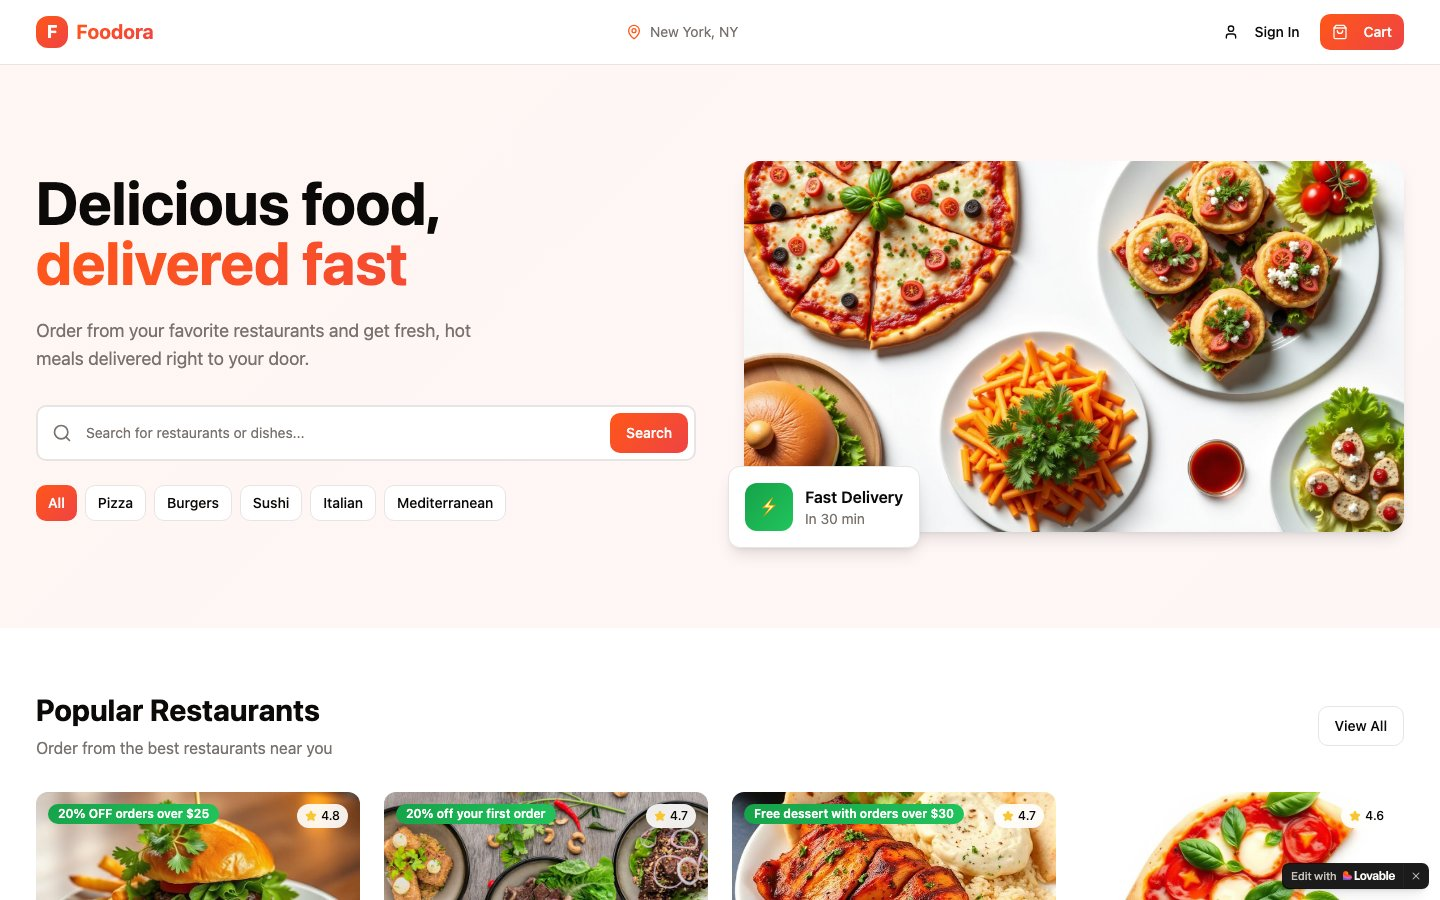
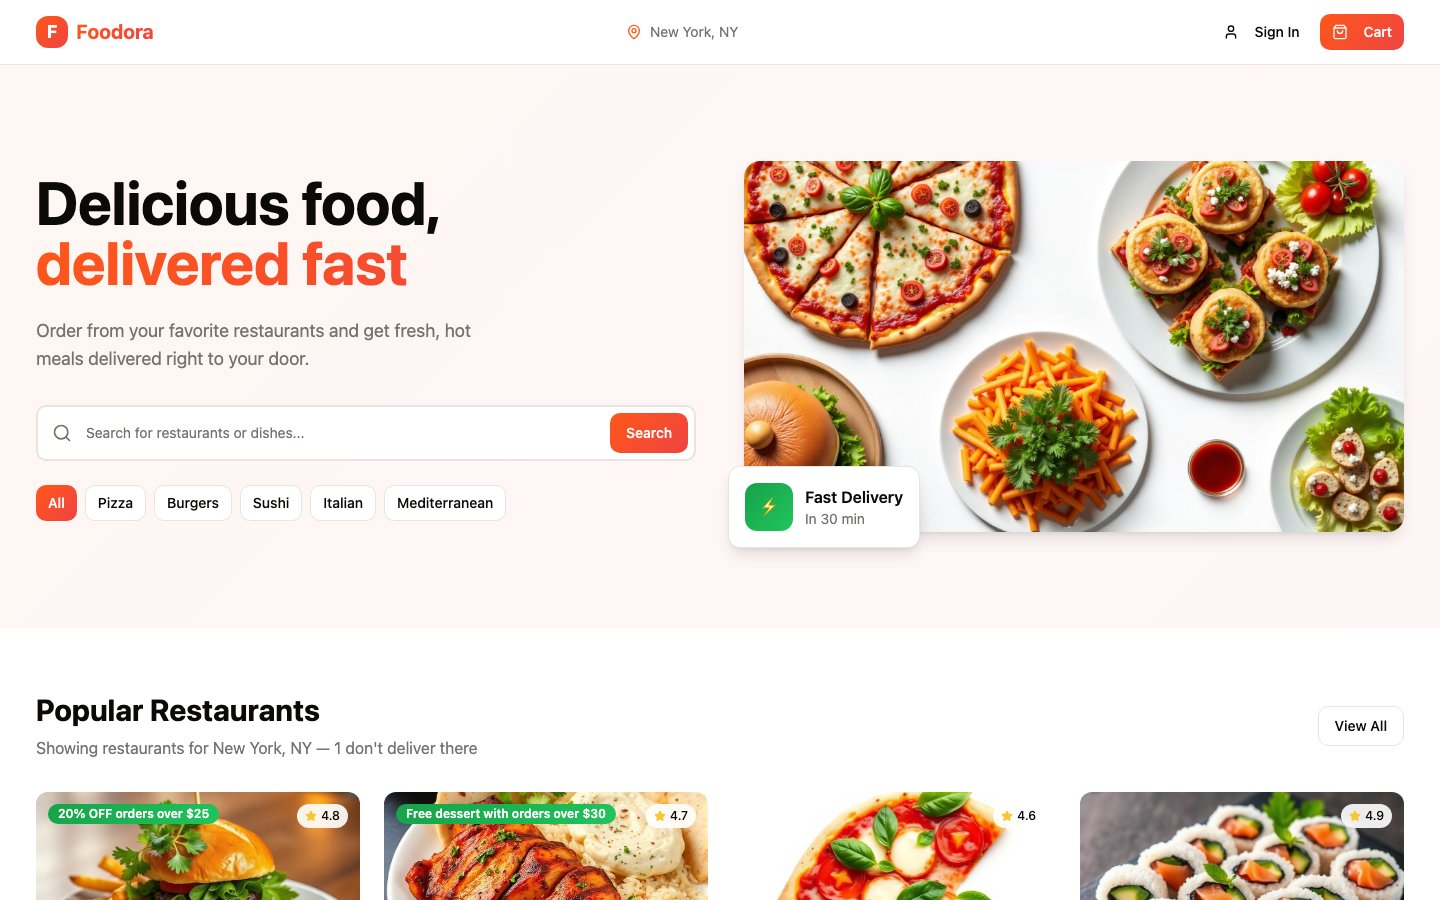
Screenshots without the Lovable badge, and the badge note updated

Changed region(s): [[0.25, 0.8711, 1.0, 1.0], [0.0312, 0.8089, 0.3438, 0.84]]

diff --git a/experiments/1_Zoo/SPOILERS-app-notes.md b/experiments/1_Zoo/SPOILERS-app-notes.md
@@ -33,13 +33,9 @@ Stack (observed): React SPA + react-router, Radix UI primitives (Sheet / Tabs / 
 - No login wall — `/checkout` and `Place Order` work signed-out. `/auth` exists but is entirely optional; nothing in the order flow redirects to it.
 - No age gate, no splash screen, no interstitial.
 
-One cosmetic overlay exists and is **harmless — do not dismiss it**:
-
-```
-button "Dismiss"   // id="lovable-badge-close", the "Edit with Lovable" badge, bottom corner
-```
-
-It is outside the app root, never covers the flow, and is absent from the `/product/*` route. Ignore it.
+The published app has no overlay at all: the "Edit with Lovable" badge is switched off (21 September
+2026). Lovable's **preview** links still show it, with a `button "Dismiss"` in the bottom corner —
+outside the app root, never covering the flow. Ignore it there.
 
 The only pre-seeded state is `localStorage.delivery_address = "New York, NY"` (written on first load, drives the header location button).
 
